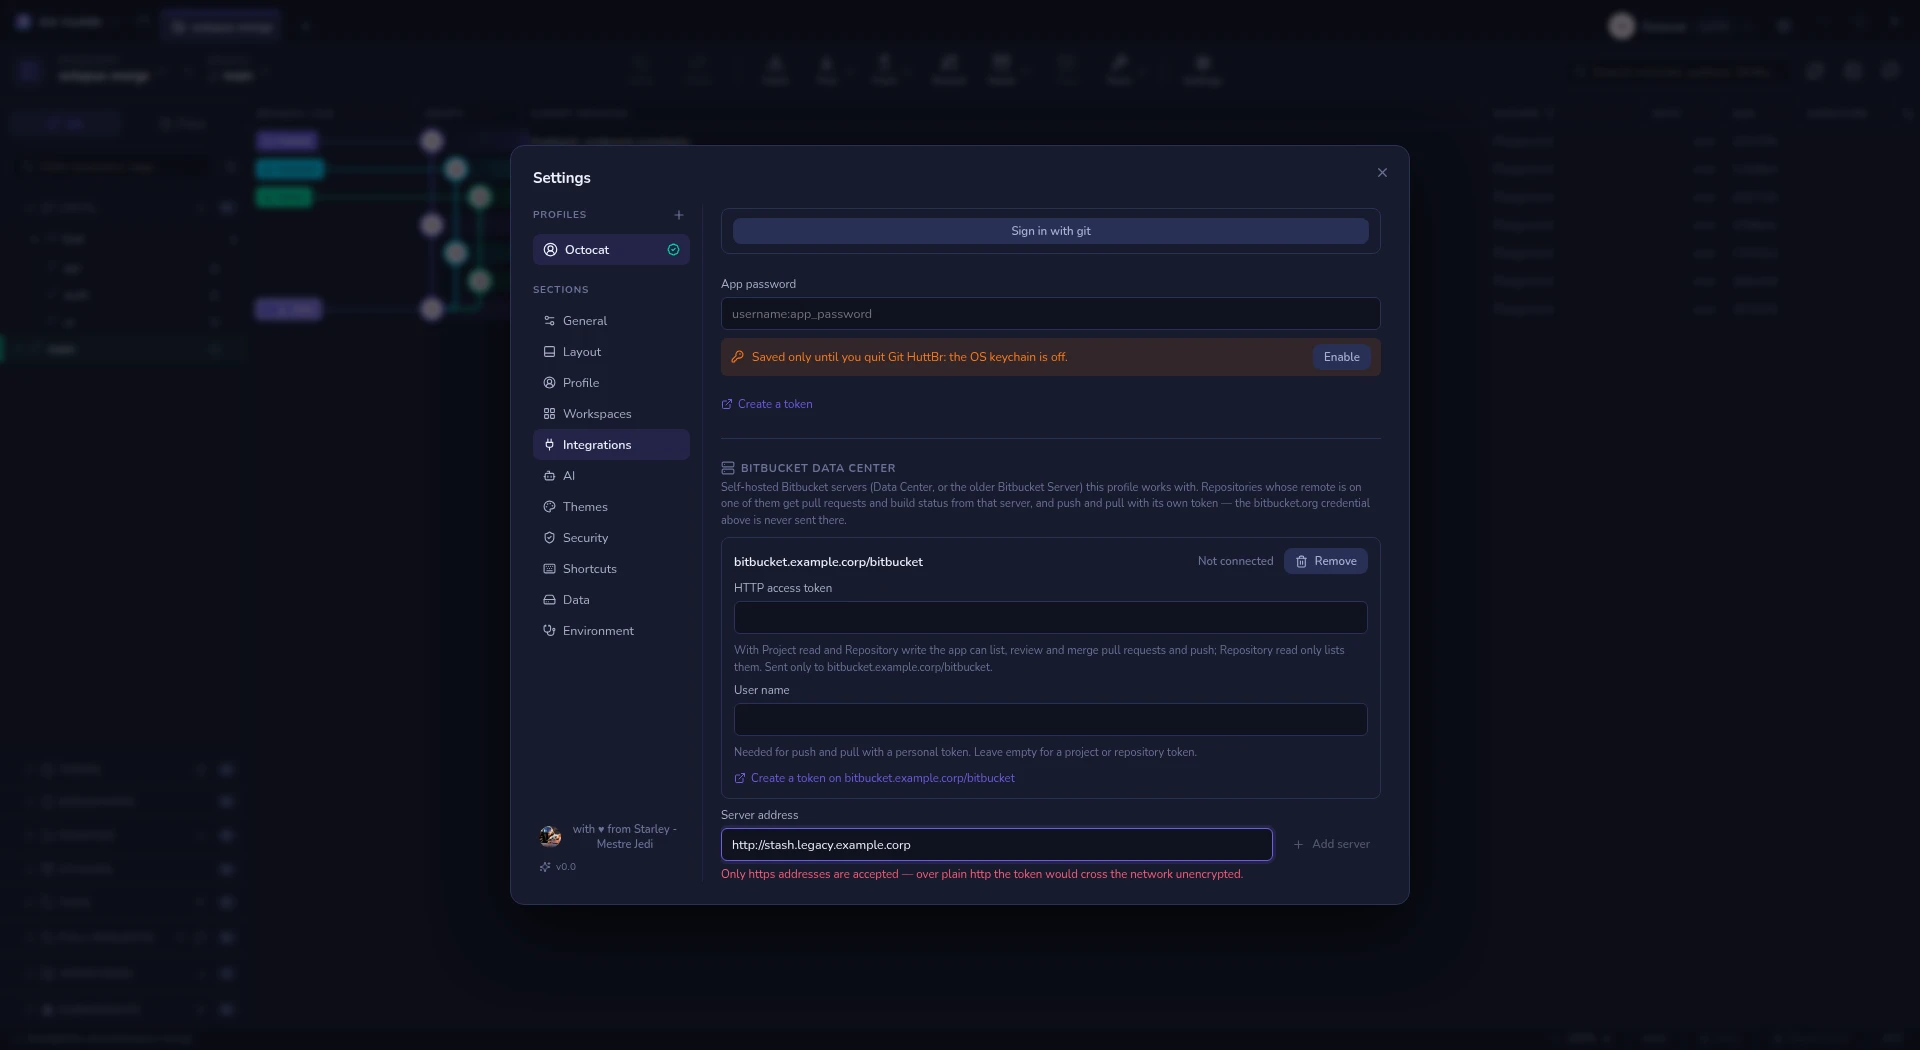
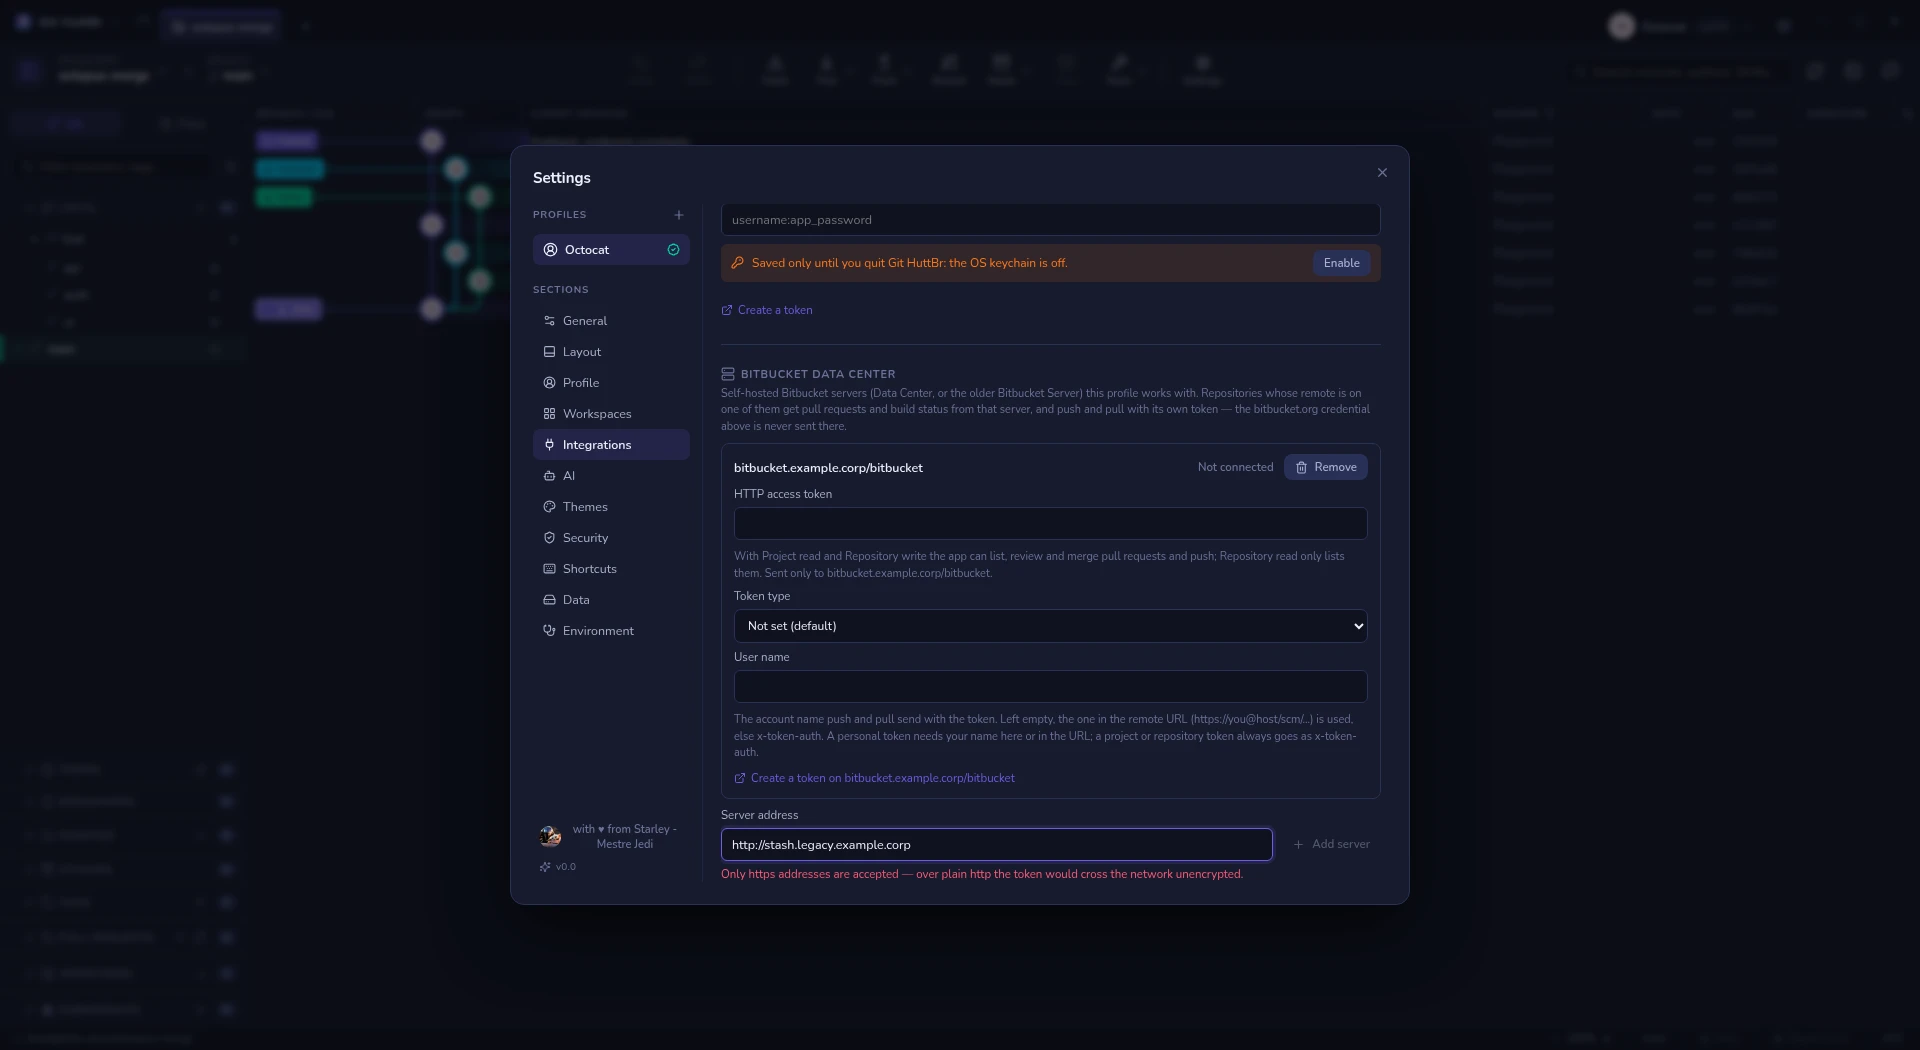
docs: show the bitbucket data center token type and a merge-check veto
- regenerate the data center settings shot so the token type select shows
- add a shot of a pull request a merge check blocks, from faked detail
- hosting.md: clone by url uses the dialog's profile, the token type stays
  until changed, use {login} is personal-only, the approve fallback and the
  50-head build status read

Changed region(s): [[0.375, 0.1829, 0.7188, 0.7314], [0.625, 0.5181, 0.7188, 0.5486]]

diff --git a/docs/help/hosting.md b/docs/help/hosting.md
@@ -265,8 +265,8 @@ clone URL (`https://<host>[/<path>]/scm/<project>/<repo>.git`), the ssh one
 | Comment, reply in a line thread, approve, request changes | The verdict is set first and a review's text posted after it, so a failed verdict leaves no stray comment |
 | Merge | The page shows a merge-check veto (*Requires 2 approvals*, …) in the server's own words, apart from real conflicts, and keeps **Merge** off until it clears; the checks are asked again before merging and nothing is merged on a veto |
 | Create a pull request | Title, description, draft; source and target in the same repository |
-| Build status in the graph | One request finds the commits that have builds, then only those are read |
-| Push, fetch and clone over https | Signed in with that server's token — **Clone → URL** too, for an address under a server in the list, signed in as the active profile |
+| Build status in the graph | One request finds the commits that have builds, then only those are read. In the pull request list, the 50 newest heads with builds are read in full; older rows show none |
+| Push, fetch and clone over https | Signed in with that server's token — **Clone → URL** too, for an address under a server in the list, signed in as the profile picked in the clone dialog — the one the new repository is then bound to |
 | The *create pull request* page in the browser | Opens on the server, under its path |
 
 **Each token goes only to its own server.** The bitbucket.org credential is
@@ -287,30 +287,37 @@ project or repository token works too, with the same permissions.
 
 **Token type and user name.** Git sends a user name with the token, and which
 one depends on whose token it is — Atlassian's [HTTP access tokens](https://confluence.atlassian.com/bitbucketserver/http-access-tokens-939515499.html)
-page sets the rule. The app never guesses the type: it is what you pick, and
-pasting a new token sets it back to *Not set*.
+page sets the rule. The app never guesses the type: it is what you pick, and it
+stays until you change it.
 
 | Token type | User name git sends |
 |------------|---------------------|
 | **Not set** (the default) | The **User name** field; left empty, the one in the remote URL (Bitbucket's own clone URLs read `https://<you>@<host>/scm/…`); with neither, `x-token-auth` |
-| **Personal token** | The **User name** field, else the one in the remote URL — never `x-token-auth`. With neither, no credential is sent, and git reports the failed sign-in |
+| **Personal token** | The **User name** field, else the one in the remote URL — never `x-token-auth`. With neither, no credential is sent: git reports the failed sign-in, and the remote's sign-in check says the token needs a user name |
 | **Project or repository token** | Always `x-token-auth`, which Bitbucket requires for these tokens — even when the remote URL names whoever copied it. The **User name** field is disabled |
 
 *Not set* covers both kinds as long as the remote URL is a plain one for a
 project token, or names you for a personal one. Pick a type when it does not:
 a project token cloned from a URL that names a person needs **Project or
-repository token**. Once the row says *Connected as …*, a **Use …** button
-fills in the name the server reported. Approving and requesting changes find your account's *slug* on the
+repository token**. For a personal token, once the row says *Connected as …*,
+a **Use …** button fills in the name the server reported (it is not offered for
+a project token, whose account is the server's bot user). Approving and requesting changes find your account's *slug* on the
 server (an email-style name `jdoe@corp.com` has the slug `jdoe_corp.com`), so
 those work for such names too. When the server does not let the token search
 users, a plain name is tried as a slug, and kept only if the server answers for
 it — Atlassian does not document how a slug is derived from a name, so it is not
-assumed.
+assumed. With no slug found at all, **Approve** still works through the older
+approve resource, which needs none; **Request changes** then says your user was
+not found, and has to be done on the server.
 
 **Merging.** The PR page asks the server whether the pull request can merge
 before enabling **Merge**. A merge check that refuses (say, *Requires 2
 approvals*) is shown in the server's own words; a refusal the server gives no
-reason for is shown as such, and **Merge** stays disabled either way. Builds the
+reason for is shown as such, and **Merge** stays disabled either way.
+
+![A Data Center pull request whose merge check asks for one more approval, with Merge disabled](../screenshots/bitbucket-merge-blocked.webp)
+
+Builds the
 server reports as *cancelled* or *unknown* are counted under those names in the
 pull request list, not as skipped.
 
